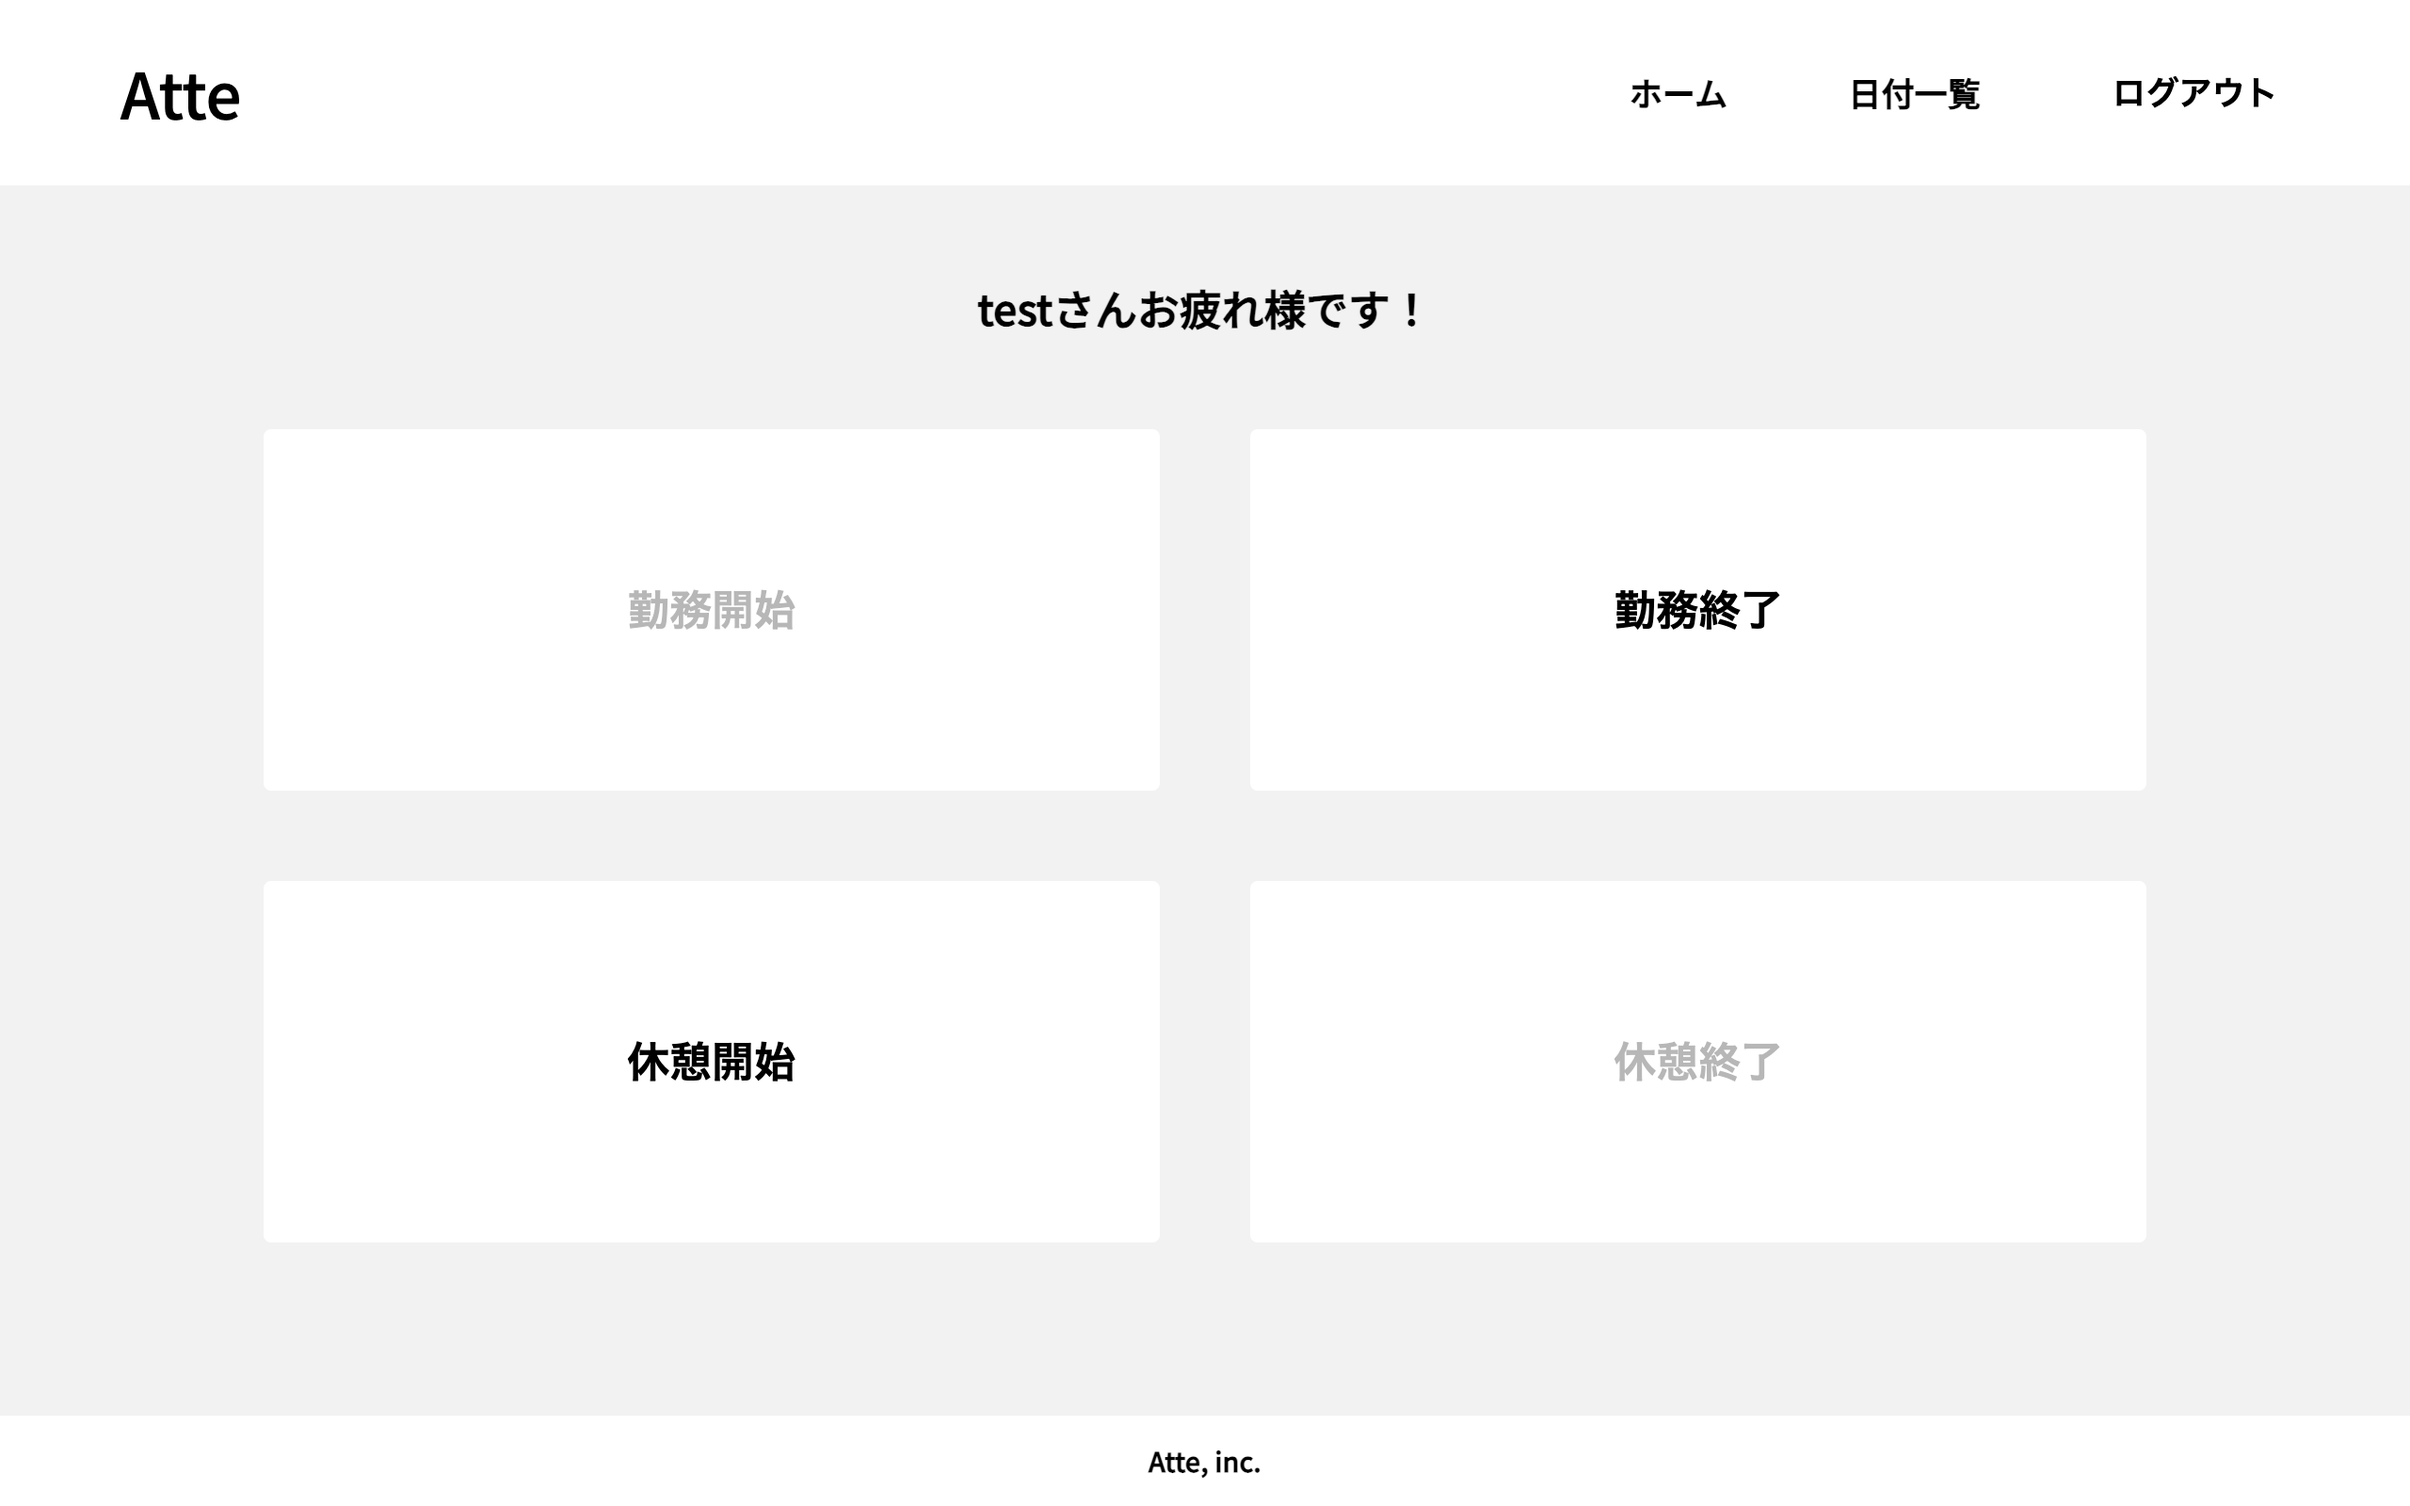
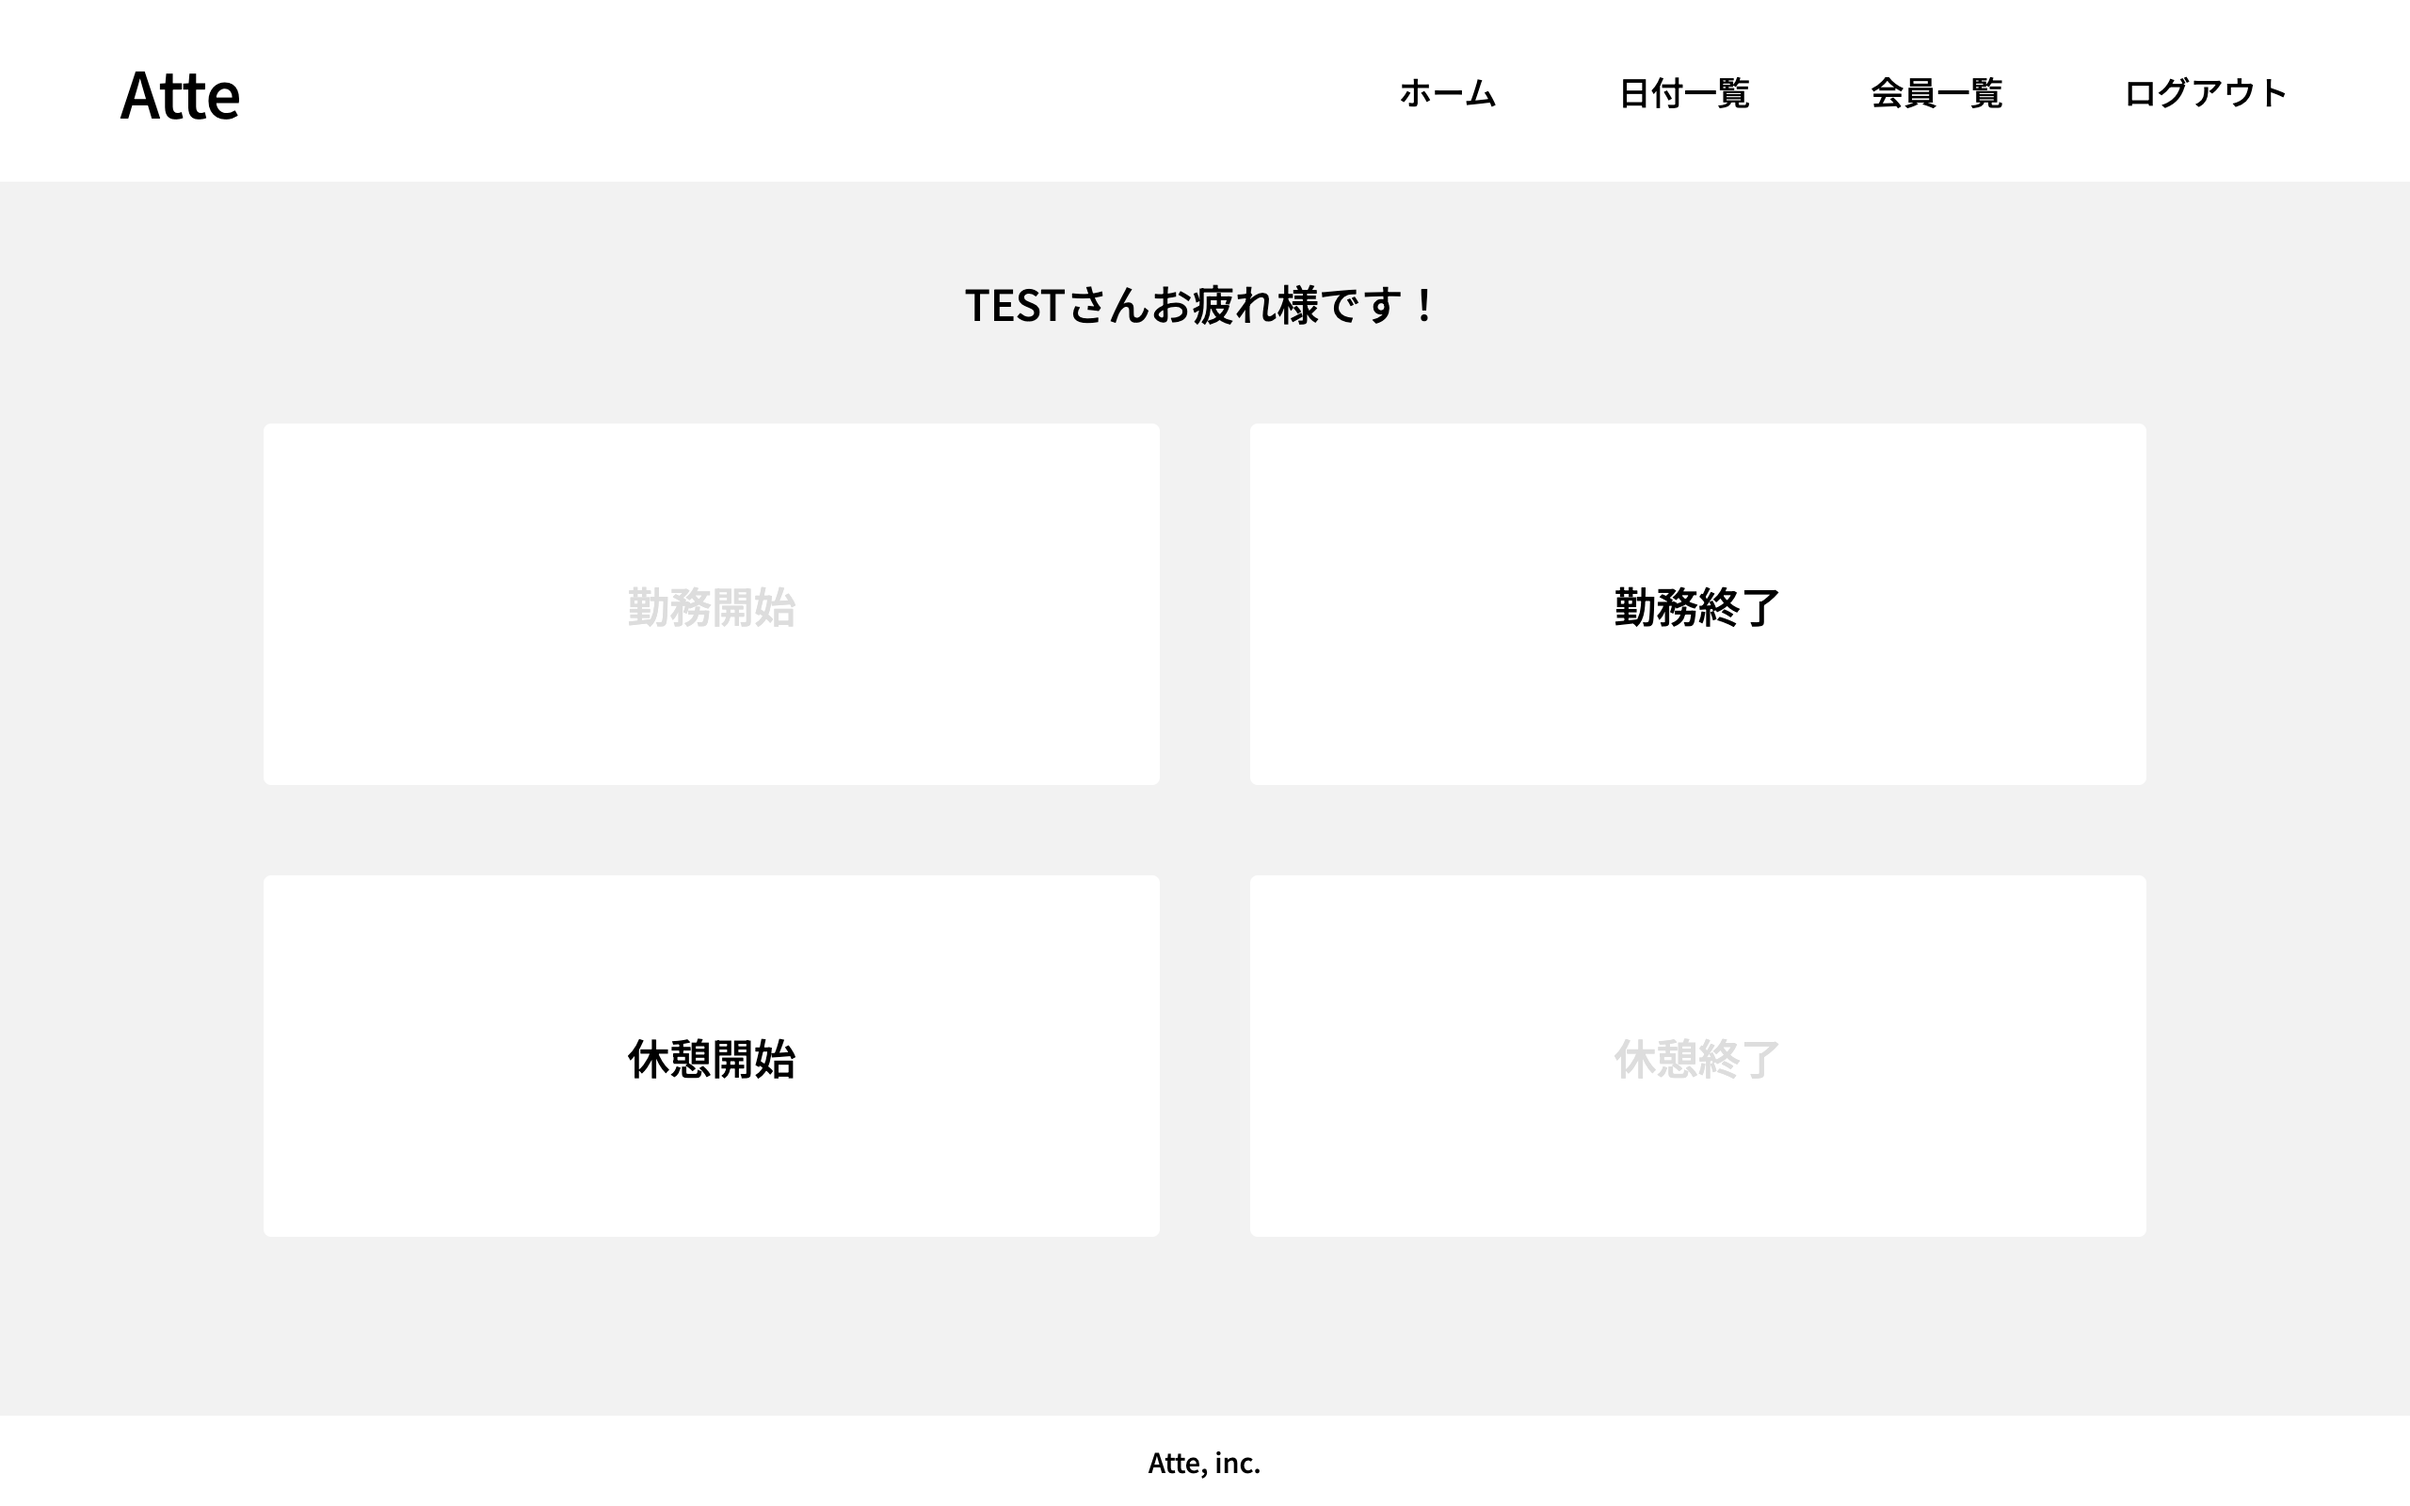
doc: READMEに会員一覧機能と会員別勤怠情報表示機能を追加する

diff --git a/README.md b/README.md
@@ -30,11 +30,14 @@
   - 1日分の全ユーザー勤怠情報表示
   - ページネーション機能
   - 前日・翌日へのリンク
-
-### 追加実装予定の機能
-
 - ユーザー一覧機能
+  - 全ユーザーの名前表示
+  - 名前の部分一致検索
+  - ページネーション機能
 - ユーザー別勤怠情報表示
+  - 1月分の個別ユーザー勤怠情報表示
+  - ページネーション機能
+  - 前月・翌月へのリンク
 
 ## 使用技術(実行環境)
 
